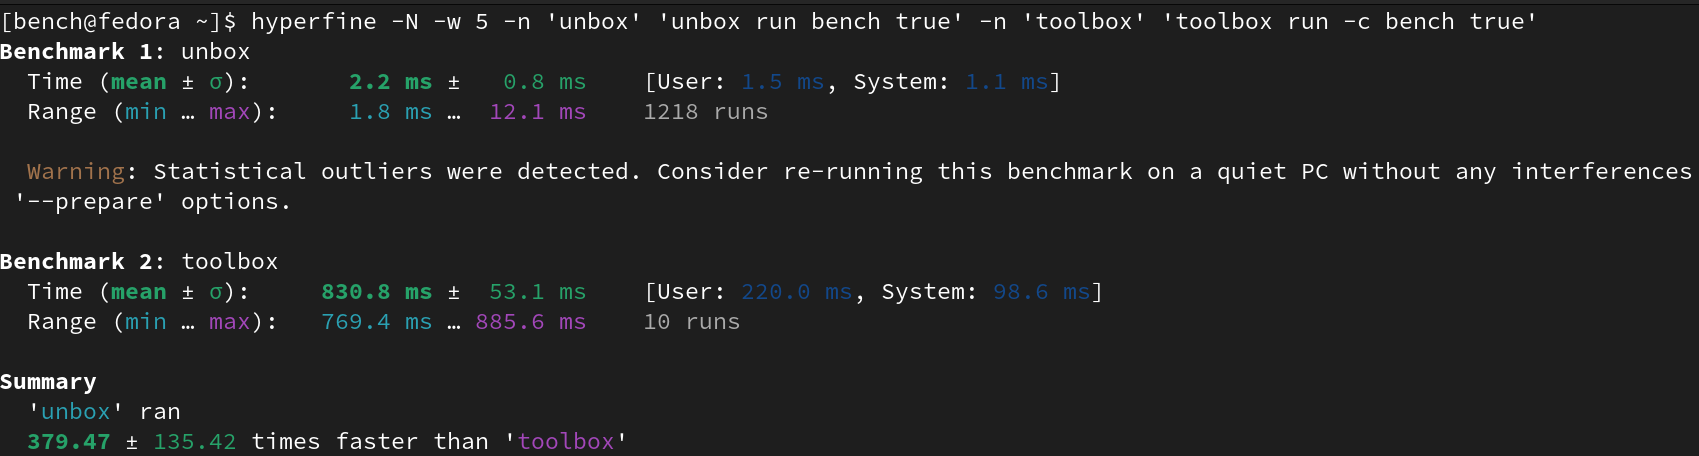
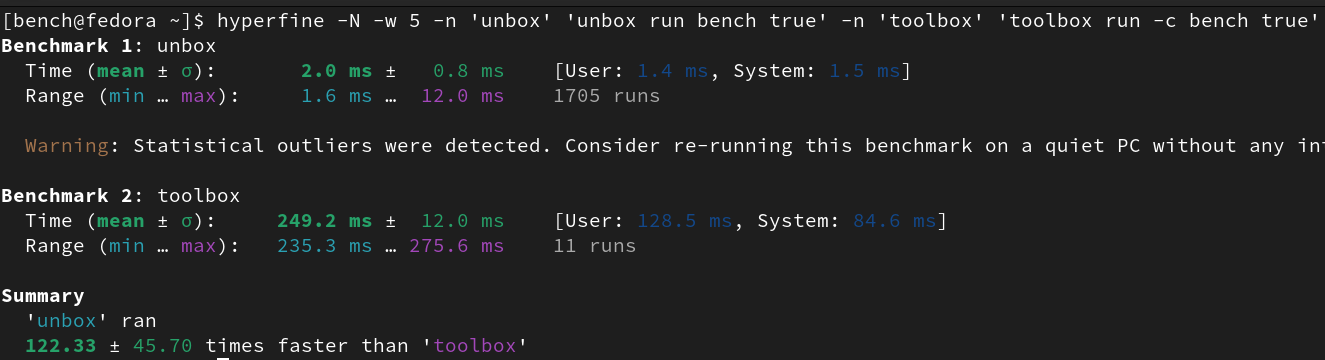
Update README and comparaisons with other tools. Bumped version

diff --git a/src/config.rs b/src/config.rs
@@ -53,8 +53,8 @@ pub fn setup() -> eyre::Result<()> {
     let home = var("HOME").wrap_err("Could not find current home")?;
     let meta = format!("{home}/{}/meta/", STORAGE);
     let images = format!("{home}/{}/images/", STORAGE);
-    create_dir_all(&meta).wrap_err("Could not create meta directory")?;
-    create_dir_all(&images).wrap_err("Could not create images directory")
+    create_dir_all(meta).wrap_err("Could not create meta directory")?;
+    create_dir_all(images).wrap_err("Could not create images directory")
 }
 
 #[derive(Debug, Deserialize, Serialize)]

diff --git a/README.md b/README.md
@@ -6,8 +6,7 @@ is implemented directly with Linux Namespaces to provide the environment of exec
 to use existing OCI images.
 
 > **Warning**
-> The implementation is still very young, and has not been "battle tested" at all, the only usage to my knowledge has been in my personal
-> computer. If you find any bugs, please open an issue.
+> The implementation is still very young, and has not been "battle tested" at all, if you find any bugs, please open an issue.
 
 ## Installation
 
@@ -42,7 +41,7 @@ $ just sbuild optimized
 $ cp ./target/x86_64-unknown-linux-musl/optimized/unbox ~/.local/bin/
 ```
 
-But it is not needed, you can also use:
+But if you prefer a dynamically linked binary, you can also use:
 
 ```sh
 $ cargo build --profile optimized
@@ -75,7 +74,7 @@ For example to create an Arch Linux toolbox from its official OCI image using `p
 $ unbox create archlinux -i docker.io/archlinux:latest -e podman
 ```
 
-In any case it is possible to assign the default shell for the new image at creation time, in case the image does not have the current users' shell:
+In any case, it is possible to assign the default shell for the new image at creation time, in case the image does not have the current users' shell:
 
 ```sh
 $ unbox create alpine -i docker.io/alpine:latest -e podman -s /bin/sh
@@ -109,6 +108,7 @@ To list the names of the existing toolboxes:
 
 ```sh
 $ unbox list
+$ unbox ls
 ```
 
 ### Remove
@@ -117,6 +117,24 @@ To delete an existing toolbox:
 
 ```sh
 $ unbox rm <name>
+$ unbox remove <name>
+```
+
+Multiple toolboxes can be removed at the same time:
+
+```sh
+$ unbox rm <name1> <name2> ...
+$ unbox remove <name1> <name2> ...
+```
+
+### Configure
+
+Most toolboxes will have a configuration file stored at `~/.local/share/unbox/meta/`. To change the configuration of a toolbox the `configure`
+subcommand is recommended. To list the possible options:
+
+```sh
+$ unbox cfg -h
+$ unbox configure --help
 ```
 
 ## Alternatives
@@ -127,8 +145,8 @@ or lose accuracy with new developments in each of the different implementations.
 
 | Implementation                                       | Language | Based on             | Image                  | Time to enter |
 |------------------------------------------------------|----------|----------------------|------------------------|---------------|
-| [`toolbx`](https://github.com/containers/toolbox)    | Go       | `podman`             | OCI images             | 830 ms        |
-| [`distrobox`](https://github.com/89luca89/distrobox) | Shell    | `podman` or `docker` | OCI images             | 273 ms        |
+| [`toolbx`](https://github.com/containers/toolbox)    | Go       | `podman`             | OCI images             | 249 ms        |
+| [`distrobox`](https://github.com/89luca89/distrobox) | Shell    | `podman` or `docker` | OCI images             | 153 ms        |
 | [`nsbox`](https://github.com/refi64/nsbox)           | Go       | `systemd-nspawn`     | Ansible                | --- ms        |
 | [`devbox`](https://github.com/jetpack-io/devbox)     | Go       | `nix-shell`          | -                      | --- ms        |
 | [`unbox`](https://github.com/lopukhov/unbox)         | Rust     | -                    | OCI images or tarballs | 2 ms          |
